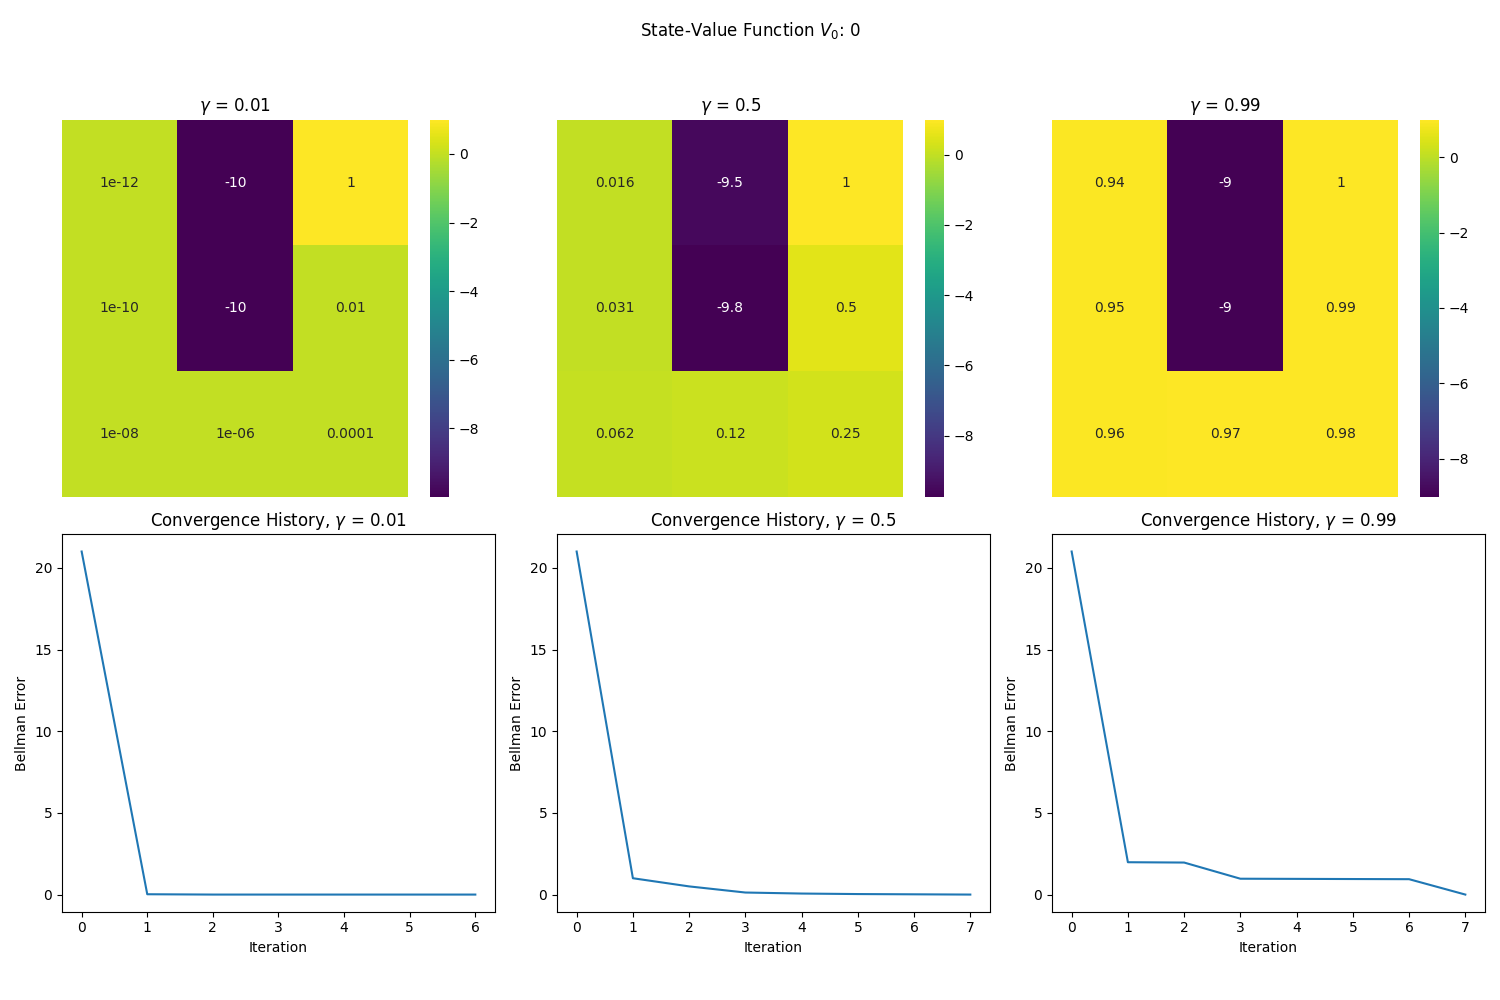
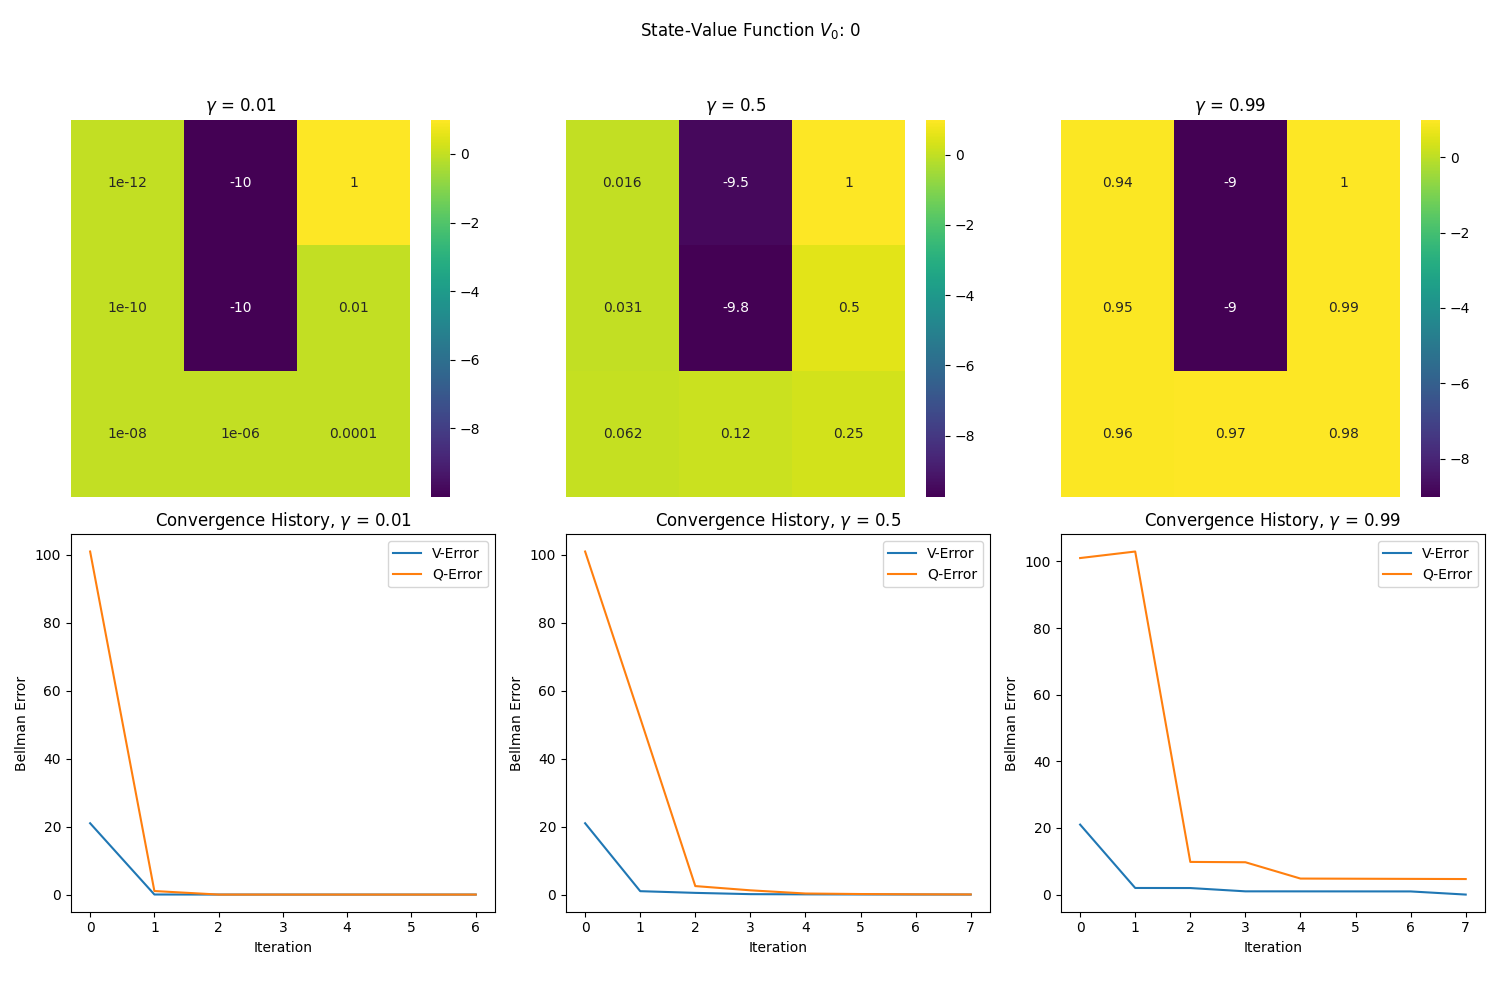
Q-error also plotted

diff --git a/Assignment 2/gym_gridworlds/bellman_update.py b/Assignment 2/gym_gridworlds/bellman_update.py
@@ -122,10 +122,12 @@ if __name__ == "__main__":
             plot_v_function(V, axs1[0][i], gamma, grid_size)
 
             # plot convergence history
-            axs1[1][i].plot(history_V)
+            axs1[1][i].plot(history_V, label='V-Error')
+            axs1[1][i].plot(history_Q, label='Q-Error')
             axs1[1][i].set_title(f'Convergence History, $\gamma$ = {gamma}')
             axs1[1][i].set_xlabel('Iteration')
             axs1[1][i].set_ylabel('Bellman Error')
+            axs1[1][i].legend()
 
         plt.tight_layout(rect=[0, 0.03, 1, 0.95])
         filename_v = f'plots_v0_{init_value}.png'
@@ -147,16 +149,6 @@ if __name__ == "__main__":
         filename_q = f'plots_q0_{init_value}.png'
         plt.savefig(filename_q)
         plt.close(fig2)
-
-        # plot for Q-value errors
-        fig3, axs3 = plt.subplots(n_actions, len(gammas), figsize=(15, 3 * n_actions))
-
-        '''
-        
-        -------------- PENDING --------------
-        
-        '''
-
 
 '''
 -- old --
